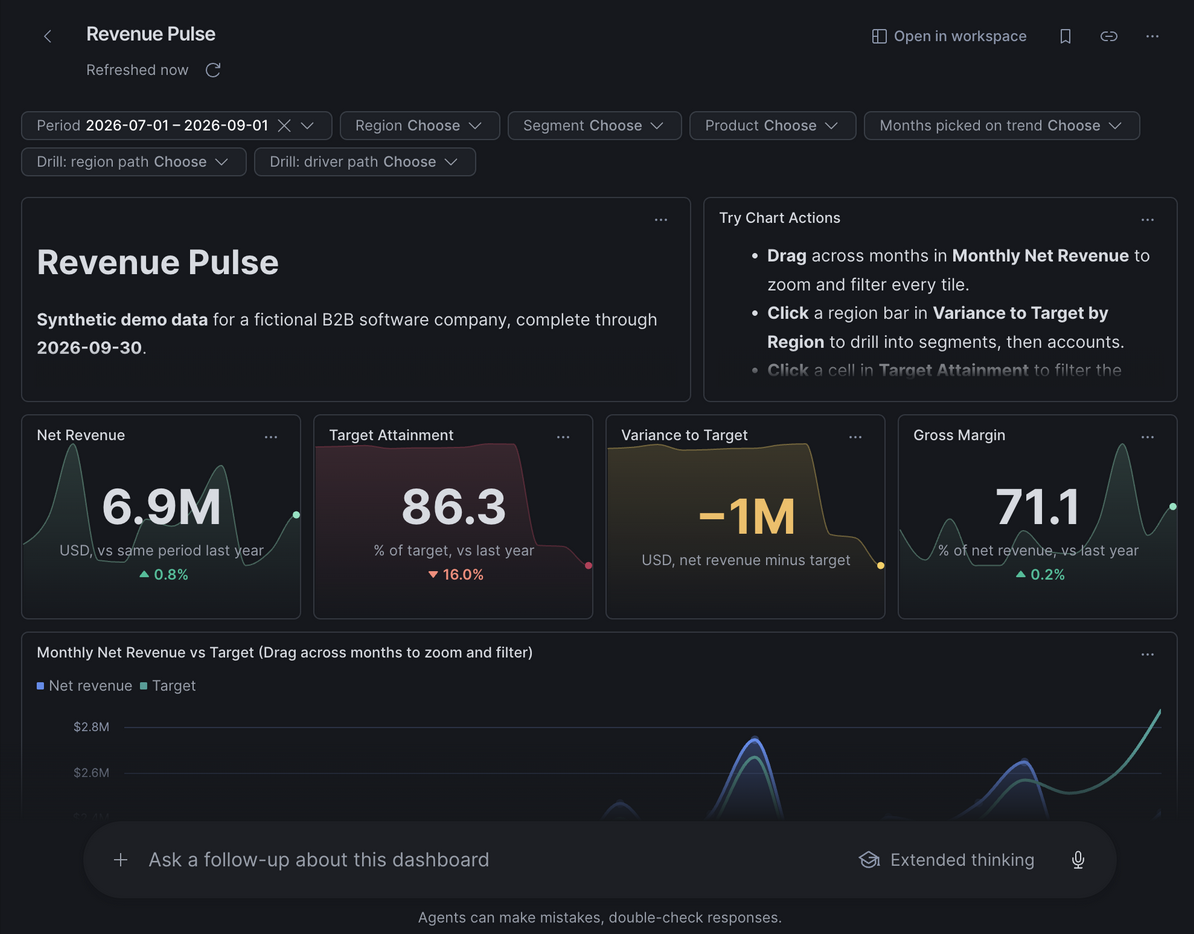
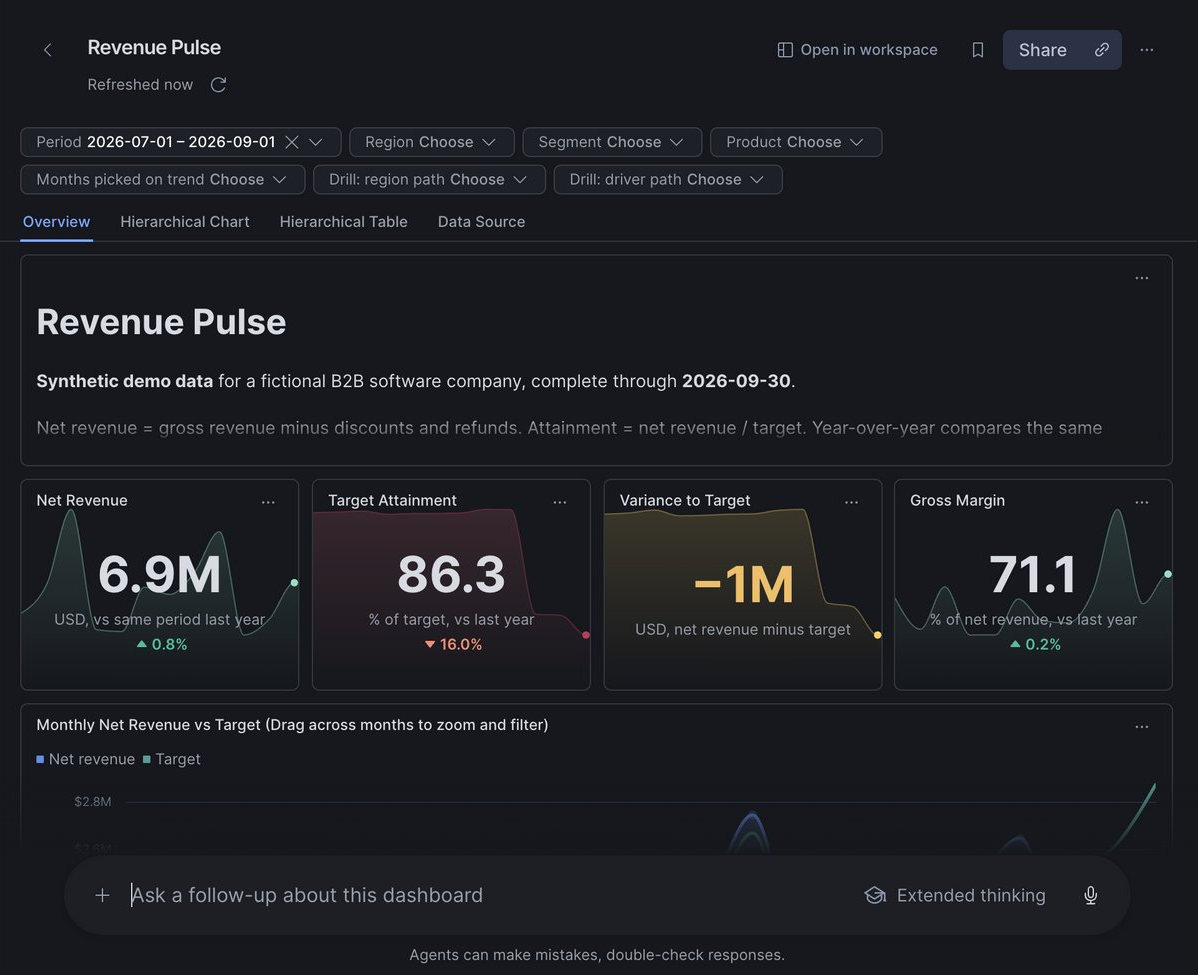
Update CoWork artifact screenshot after republish

diff --git a/quickstart/getting-started-with-snowflake-dashboards-2-0/getting-started-with-snowflake-dashboards-2-0.md b/quickstart/getting-started-with-snowflake-dashboards-2-0/getting-started-with-snowflake-dashboards-2-0.md
@@ -868,7 +868,7 @@ After publishing, make edits in the Workspaces editor and use **Publish changes*
 
 In Snowflake CoWork, open **Artifacts**, select the **All** tab, and open the **Revenue Pulse** dashboard you published. If you published more than one version, use the link copied from the intended dashboard's Share dialog to open the correct artifact. It shows the published tiles and filters, with a follow-up box below. The docs describe what viewers can and can't do here in [Consuming a dashboard in Cowork](https://docs.snowflake.com/en/LIMITEDACCESS/cowork-dashboards).
 
-![Current Revenue Pulse artifact in CoWork with KPI sparklines and the follow-up box](assets/cowork-artifact.png)
+![Current Revenue Pulse artifact in CoWork with filters, page tabs, KPI sparklines, and the follow-up box](assets/cowork-artifact.png)
 
 Confirm the artifact's filters and totals match your Q3 baseline. The **Ask a follow-up about this dashboard** box sits below the tiles.
 
